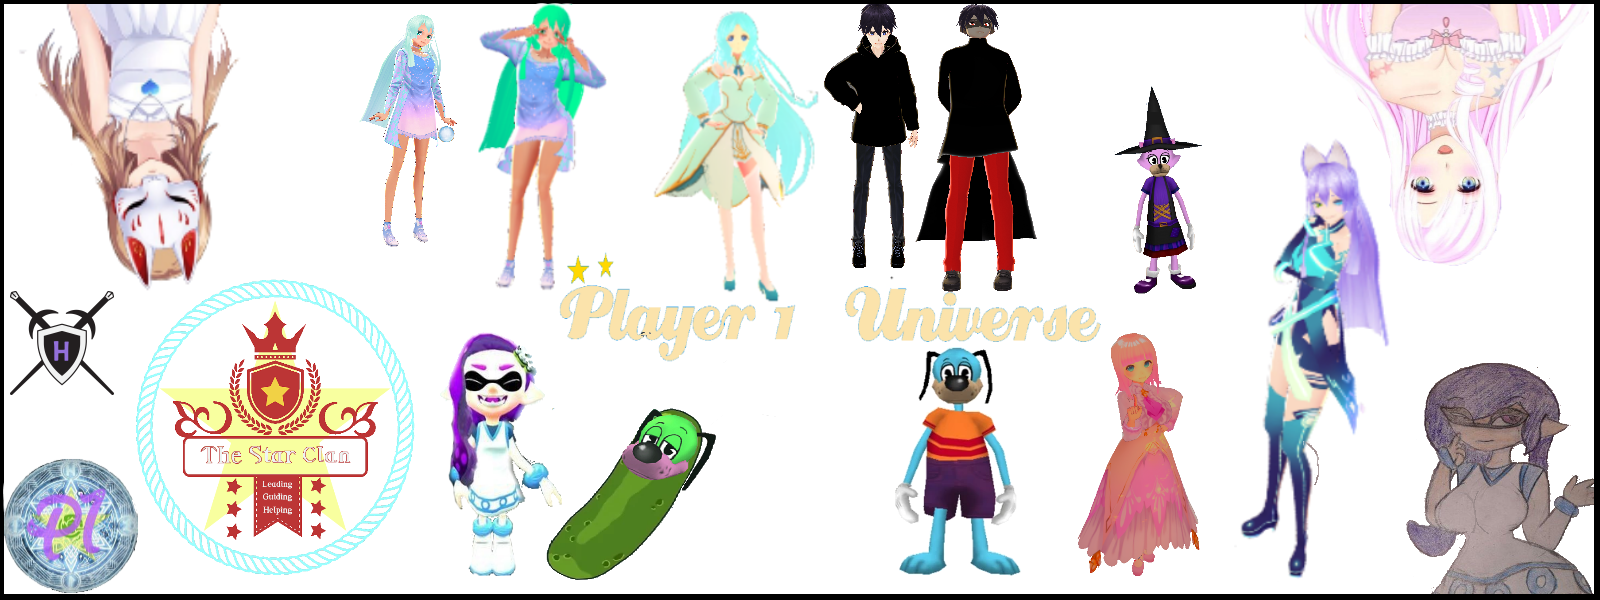
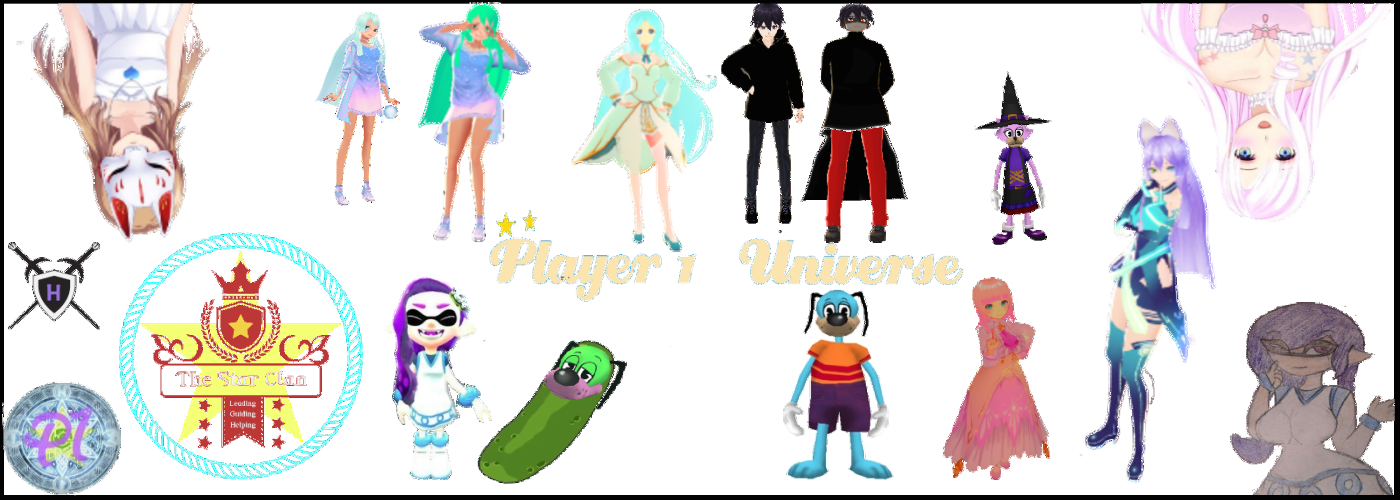
Did stuff
I added the home page and the credits page to the navigation bar on each page (excluding the exclusions).

I added Zachary_Davidson.html to add one more character to the canon.

I added assets/js/app.js to add more functionality to my website.

Destiny has taken over my homepage and she added her own picture to the homepage and her own introduction!

I temporarily disabled the banner until I can finish the tutorial on how to properly make my website accessible to all devices.

I added a secret link without the underline of the regular link on the homepage which leads to https://www.Player1Universe.com/Characters/Zachary_Davidson/

I renamed MeetMyCharacters.html to My_Characters.html and I changed the location of the My_Characters.html document to the Characters/ folder.

I added a footer to the Error 404 page but I removed the Twitter and Gmail icons in favor against them. Even though I shrunk the image several tiimes and completely redid the text on error.png just once.

I copied .htaccess from the Blog/ folder into the Characters/ folder.

I also shrunk the banner even though I disabled it for now.

I added shadows for behind the text but I need to figure out what color looks good on it.

diff --git a/index.html b/index.html
@@ -5,60 +5,69 @@
 		<meta charset="UTF-8">
 		<meta name="keywords" content="toontown, the heroes, omniversal, video games, games, skits, Player 1, Player 1 Universe, Player 1 Gamez, Player1Gamez, Player1Universe, P1, P1U, P1G">
 		<meta name="description" content="Player 1 Universe is a company working to bring a little light into the world one thing at a time!">
-		<meta name="viewport" content="width=device-width, initial-scale=1">
+		<meta name="viewport" content="width=device-width, initial-scale=1.0">
 		<link rel="icon" sizes="32x32" href="assets/img/ico/32.ico">
 		<link rel="stylesheet" href="assets/css/styles/stylesheet.css">
 	</head>
 	<body style="font-family:'Impress BT'">
+		<style>
+			body {
+				color: #FEC5E5;
+			}
+		</style>
 		<header>
 				<nav>
 					<ul>
 						<center>
 
-						<a href="https://www.player1universe.com/About" style="color: #FEC5E5">About</a> <a href="https://www.player1universe.com/Blog" style="color: #FEC5E5">Blog</a> <a href="https://www.player1universe.com/Videos" style="color: #FEC5E5">Videos</a> <a href="https://www.player1universe.com/Games" style="color: #FEC5E5">Games</a> <a href="https://www.player1universe.com/MeetMyCharacters" style="color: #FEC5E5">Meet My Characters</a> <a href="https://www.player1universe.com/Stories" style="color: #FEC5E5">Stories</a> <a href="https://www.player1universe.com/ContactMe" style="color: #FEC5E5">Contact Me</a>
+							<a href="/" style="color: #FEC5E5">Home</a> <a href="https://www.player1universe.com/About" style="color: #FEC5E5">About</a> <a href="https://www.player1universe.com/Blog" style="color: #FEC5E5">Blog</a> <a href="https://www.player1universe.com/Videos" style="color: #FEC5E5">Videos</a> <a href="https://www.player1universe.com/Games" style="color: #FEC5E5">Games</a> <a href="https://www.player1universe.com/Characters/My_Characters" style="color: #FEC5E5">Meet My Characters</a>Meet My Characters</a> <a href="https://www.player1universe.com/Stories" style="color: #FEC5E5">Stories</a> <a href="https://www.player1universe.com/ContactMe" style="color: #FEC5E5">Contact Me</a> <a href="Credits" style="color: #FEC5E5">Credits</a>
 						
 						</center>
 					</ul>
 				</nav>
-			<center><a href="/"><img src="assets/img/Banner.png" alt="Banner/Home Button"></a></center>
-		</header>
-
-		<p><center>Hello!</center></p>
-
-		<p><center>My name is Destiny and I am apart of the Tulpa called the Goddess! I am Zachary Danielson's Tulpa and he is the author of <a href="https://www.wattpad.com/story/224624037-the-star-of-toontown" style="color: #FEC5E5">The Star of Toontown</a> trilogy, he is the creator of Toontown Fantasy, he is the creator of Player 1 Universe, and is the the head of this company!</center></p>
-
-		<p><center>Click <a href="About" style="color: #FEC5E5">here</a> to learn more about Zachary Danielson's Company!</center></p>
-
+			<center><a href="/"><img src="assets/img/Banner.png" alt="Banner/Home Button" class="img-banner"></a></center>
+			<div class="wrapper">
+			<article class="img-info">
+					<article>
+		<center><h1>Hello and welcome to Player 1 Universe!</h1></center>
+			</header>
+		<br>
+		<br>
+		<center><img src="assets/img/Characters/Destiny.png" alt="Destiny"> <p><center>My name is Destiny and I am piece of the Soul of the entity known as Goddess that was given to Zachary Danielson as a gift from the Divine since she was delt a bad hand in her previous lives!</p></center>
+			<br>
+			<br>
+		<center><h1>Who is Zachary Danielson you ask?</h1></center>
+			<br>
+			<br>
+		<center><p><a href="https://www.Player1Universe.com/Characters/Zachary_Davidson" class="Zachary">Zachary</a> David Danielson is the goddess incarnate Thalassa!
+			<br>
+			<br>
+		<p><center>Click <a href="About" style="color: #9370db">here</a> to learn more about Zachary Danielson's Company!</center></p>
+			<br>
+			<br>
 		<center><iframe src="https://discord.com/widget?id=775528645086543895&theme=dark" width="350" height="500" allowtransparency="true" frameborder="0" sandbox="allow-popups allow-popups-to-escape-sandbox allow-same-origin allow-scripts"></iframe></center>
-
+					</article>
+				</article>
 		<!--
 
-			AWAKEN!
+			Hey Zachary, do you copy?
 
-			Something or someone is coming. I can feel it...
+			What is it?
+			
+			Transmissions are a go.
 
-			It is nearly time...
+			That's great! I'll see you there!
 
-			Are you ready to use your powers to fight them?
-
-			You have to find the Amulet of the Goddess and defeat them before it is too late!
-		
-			They're coming for me and for you... I must go for now...
-
-			Goodbye and good luck on your quest. 
-
-			By the way, make sure you keep an eye on the transmissions because I will be talking through anybody who posts through there... 
-
-			Also, somewhere on this page, there is an invisible link which will lead you to the discovery of your own powers...
-
-			Goodbye 
+			Roger that. Over and out.
 
 		-->
 
+
+
 		<footer>
-			<center><a href="mailto:zacharyp1aysgamez@gmail.com" style="color: #FEC5E5"> <img src="assets/img/Gmail.png"</a> <a href="https://twitter.com/player1gamez" alt="Check out my Twitter!" style="color: #FEC5E5"><img src="assets/img/Twitter.png"></a></center>
-			
-			<center><p>Player 1 Universe and Omniversal are both protected under the Poor Man's Copyright law from 1976 and are owned by Zachary Davidson as of 2020 until he can purchase a proper copyright for his website</p></center>
+			<center><p style="white">Player 1 Universe and Omniversal are both protected under the Poor Man's Copyright law from 1976 and are owned by Zachary Davidson as of 2020 until he can purchase a proper copyright for his website</p></center>
+
+			<center><p class="CbTG">Created by The Goddess...</p></center> <!-- and by Zachary Davidson-->
 		</footer>
 	</body>
 </html>

diff --git a/Characters/Zachary_Davidson.html b/Characters/Zachary_Davidson.html
@@ -1,0 +1,49 @@
+<!DOCTYPE html>
+<html>
+	<head>
+		<title>Home | Player 1 Universe</title>
+		<meta charset="UTF-8">
+		<meta name="keywords" content="toontown, the heroes, omniversal, video games, games, skits, Player 1, Player 1 Universe, Player 1 Gamez, Player1Gamez, Player1Universe, P1, P1U, P1G">
+		<meta name="description" content="Player 1 Universe is a company working to bring a little light into the world one thing at a time!">
+		<meta name="viewport" content="width=device-width, initial-scale=1.0">
+		<link rel="icon" sizes="32x32" href="assets/img/ico/32.ico">
+		<link rel="stylesheet" href="../assets/css/styles/stylesheet.css">
+	</head>
+	<body style="font-family:'Impress BT'">
+		<header>
+				<nav>
+					<ul>
+						<center>
+
+							<a href="/" style="color: #FEC5E5">Home</a> <a href="https://www.player1universe.com/About" style="color: #FEC5E5">About</a> <a href="https://www.player1universe.com/Blog" style="color: #FEC5E5">Blog</a> <a href="https://www.player1universe.com/Videos" style="color: #FEC5E5">Videos</a> <a href="https://www.player1universe.com/Games" style="color: #FEC5E5">Games</a> <a href="https://www.player1universe.com/MeetMyCharacters" style="color: #FEC5E5">Meet My Characters</a> <a href="https://www.player1universe.com/Stories" style="color: #FEC5E5">Stories</a> <a href="https://www.player1universe.com/ContactMe" style="color: #FEC5E5">Contact Me</a>
+						
+						</center>
+					</ul>
+				</nav>
+			<center><a href="/"><img src="assets/img/Banner.png" alt="Banner/Home Button" class="img-banner"></a></center>
+		</header>
+		<br>
+		<br>
+		<center><h1 style="color: #07FC1B">Hello?</h1></center>
+		<br>
+		<br>
+		<center><p style="color: #07FC1B">I am talking through another version of myself from another universe to tell you about myself!</p></center>
+		<br>
+		<br>
+		<center><h1 style="color: #07FC1B">Who am I?</h1></center>
+		<br>
+		<br>
+		<center><p style="color: #07FC1B">My name is Zachary Davidson and I am the author of <a href="https://www.wattpad.com/story/224624037-the-star-of-toontown" style="color: #07FC1B">The Star of Toontown</a> trilogy, I am the creator of Toontown Fantasy, the creator of Player 1 Universe, and I am the the head of Omniversal, the company that will rival Amazon, Google, and the rest of Big Tech!</p></center>
+		<br>
+		<br>
+		<center><p style="color: #07FC1B">Now, something has come up and I need to go... but first, let me tell you this---</p></center>
+			<br>
+			<br>
+		<footer>			
+			<center><p style="color: white">Player 1 Universe and Omniversal are both protected under the Poor Man's Copyright law from 1976 and are owned by Zachary Davidson as of 2020 until he can purchase a proper copyright for his website</p></center>
+				<br>
+				<br>
+			<center><p style="color: #07FC1B">Created by Zachary Davidson</p></center>
+		</footer>
+	</body>
+</html>

diff --git a/About.html b/About.html
@@ -15,7 +15,7 @@
 					<ul>
 						<center>
 
-						<a href="https://www.player1universe.com/About" style="color: #FEC5E5">About</a> <a href="https://www.player1universe.com/Blog" style="color: #FEC5E5">Blog</a> <a href="https://www.player1universe.com/Videos" style="color: #FEC5E5">Videos</a> <a href="https://www.player1universe.com/Games" style="color: #FEC5E5">Games</a> <a href="https://www.player1universe.com/MeetMyCharacters" style="color: #FEC5E5">Meet My Characters</a> <a href="https://www.player1universe.com/Stories" style="color: #FEC5E5">Stories</a> <a href="https://www.player1universe.com/ContactMe" style="color: #FEC5E5">Contact Me</a>
+							<a href="/" style="color: #FEC5E5">Home</a> <a href="https://www.player1universe.com/About" style="color: #FEC5E5">About</a> <a href="https://www.player1universe.com/Blog" style="color: #FEC5E5">Blog</a> <a href="https://www.player1universe.com/Videos" style="color: #FEC5E5">Videos</a> <a href="https://www.player1universe.com/Games" style="color: #FEC5E5">Games</a> <a href="https://www.player1universe.com/Characters/My_Characters" style="color: #FEC5E5">Meet My Characters</a>Meet My Characters</a> <a href="https://www.player1universe.com/Stories" style="color: #FEC5E5">Stories</a> <a href="https://www.player1universe.com/ContactMe" style="color: #FEC5E5">Contact Me</a> <a href="Credits" style="color: #FEC5E5">Credits</a>
 						
 						</center>
 					</ul>

diff --git a/Blog.html b/Blog.html
@@ -15,7 +15,7 @@
 					<ul>
 						<center>
 
-						<a href="https://www.player1universe.com/About" style="color: #FEC5E5">About</a> <a href="https://www.player1universe.com/Blog" style="color: #FEC5E5">Blog</a> <a href="https://www.player1universe.com/Videos" style="color: #FEC5E5">Videos</a> <a href="https://www.player1universe.com/Games" style="color: #FEC5E5">Games</a> <a href="https://www.player1universe.com/MeetMyCharacters" style="color: #FEC5E5">Meet My Characters</a> <a href="https://www.player1universe.com/Stories" style="color: #FEC5E5">Stories</a> <a href="https://www.player1universe.com/ContactMe" style="color: #FEC5E5">Contact Me</a>
+							<a href="/" style="color: #FEC5E5">Home</a> <a href="https://www.player1universe.com/About" style="color: #FEC5E5">About</a> <a href="https://www.player1universe.com/Blog" style="color: #FEC5E5">Blog</a> <a href="https://www.player1universe.com/Videos" style="color: #FEC5E5">Videos</a> <a href="https://www.player1universe.com/Games" style="color: #FEC5E5">Games</a> <a href="https://www.player1universe.com/Characters/My_Characters" style="color: #FEC5E5">Meet My Characters</a>Meet My Characters</a> <a href="https://www.player1universe.com/Stories" style="color: #FEC5E5">Stories</a> <a href="https://www.player1universe.com/ContactMe" style="color: #FEC5E5">Contact Me</a> <a href="Credits" style="color: #FEC5E5">Credits</a>
 						
 						</center>
 					</ul>

diff --git a/Characters/My_Characters.html b/Characters/My_Characters.html
@@ -15,7 +15,7 @@
 					<ul>
 						<center>
 
-						<a href="https://www.player1universe.com/About" style="color: #FEC5E5">About</a> <a href="https://www.player1universe.com/Blog" style="color: #FEC5E5">Blog</a> <a href="https://www.player1universe.com/Videos" style="color: #FEC5E5">Videos</a> <a href="https://www.player1universe.com/Games" style="color: #FEC5E5">Games</a> <a href="https://www.player1universe.com/MeetMyCharacters" style="color: #FEC5E5">Meet My Characters</a> <a href="https://www.player1universe.com/Stories" style="color: #FEC5E5">Stories</a> <a href="https://www.player1universe.com/ContactMe" style="color: #FEC5E5">Contact Me</a>
+							<a href="/" style="color: #FEC5E5">Home</a> <a href="https://www.player1universe.com/About" style="color: #FEC5E5">About</a> <a href="https://www.player1universe.com/Blog" style="color: #FEC5E5">Blog</a> <a href="https://www.player1universe.com/Videos" style="color: #FEC5E5">Videos</a> <a href="https://www.player1universe.com/Games" style="color: #FEC5E5">Games</a> <a href="https://www.player1universe.com/Characters/My_Characters" style="color: #FEC5E5">Meet My Characters</a>Meet My Characters</a> <a href="https://www.player1universe.com/Stories" style="color: #FEC5E5">Stories</a> <a href="https://www.player1universe.com/ContactMe" style="color: #FEC5E5">Contact Me</a> <a href="Credits" style="color: #FEC5E5">Credits</a>
 						
 						</center>
 					</ul>

diff --git a/Credits.html b/Credits.html
@@ -15,7 +15,7 @@
 					<ul>
 						<center>
 
-						<a href="https://www.player1universe.com/About" style="color: #FEC5E5">About</a> <a href="https://www.player1universe.com/Blog" style="color: #FEC5E5">Blog</a> <a href="https://www.player1universe.com/Videos" style="color: #FEC5E5">Videos</a> <a href="https://www.player1universe.com/Games" style="color: #FEC5E5">Games</a> <a href="https://www.player1universe.com/MeetMyCharacters" style="color: #FEC5E5">Meet My Characters</a> <a href="https://www.player1universe.com/Stories" style="color: #FEC5E5">Stories</a> <a href="https://www.player1universe.com/ContactMe" style="color: #FEC5E5">Contact Me</a>
+							<a href="/" style="color: #FEC5E5">Home</a> <a href="https://www.player1universe.com/About" style="color: #FEC5E5">About</a> <a href="https://www.player1universe.com/Blog" style="color: #FEC5E5">Blog</a> <a href="https://www.player1universe.com/Videos" style="color: #FEC5E5">Videos</a> <a href="https://www.player1universe.com/Games" style="color: #FEC5E5">Games</a> <a href="https://www.player1universe.com/Characters/My_Characters" style="color: #FEC5E5">Meet My Characters</a>Meet My Characters</a> <a href="https://www.player1universe.com/Stories" style="color: #FEC5E5">Stories</a> <a href="https://www.player1universe.com/ContactMe" style="color: #FEC5E5">Contact Me</a> <a href="Credits" style="color: #FEC5E5">Credits</a>
 						
 						</center>
 					</ul>

diff --git a/Fantasy.html b/Fantasy.html
@@ -15,7 +15,7 @@
 					<ul>
 						<center>
 
-						<a href="https://www.player1universe.com/About" style="color: #FEC5E5">About</a> <a href="https://www.player1universe.com/Blog" style="color: #FEC5E5">Blog</a> <a href="https://www.player1universe.com/Videos" style="color: #FEC5E5">Videos</a> <a href="https://www.player1universe.com/Games" style="color: #FEC5E5">Games</a> <a href="https://www.player1universe.com/MeetMyCharacters" style="color: #FEC5E5">Meet My Characters</a> <a href="https://www.player1universe.com/Stories" style="color: #FEC5E5">Stories</a> <a href="https://www.player1universe.com/ContactMe" style="color: #FEC5E5">Contact Me</a>
+							<a href="/" style="color: #FEC5E5">Home</a> <a href="https://www.player1universe.com/About" style="color: #FEC5E5">About</a> <a href="https://www.player1universe.com/Blog" style="color: #FEC5E5">Blog</a> <a href="https://www.player1universe.com/Videos" style="color: #FEC5E5">Videos</a> <a href="https://www.player1universe.com/Games" style="color: #FEC5E5">Games</a> <a href="https://www.player1universe.com/Characters/My_Characters" style="color: #FEC5E5">Meet My Characters</a>Meet My Characters</a> <a href="https://www.player1universe.com/Stories" style="color: #FEC5E5">Stories</a> <a href="https://www.player1universe.com/ContactMe" style="color: #FEC5E5">Contact Me</a> <a href="Credits" style="color: #FEC5E5">Credits</a>
 						
 						</center>
 					</ul>

diff --git a/Games.html b/Games.html
@@ -15,7 +15,7 @@
 					<ul>
 						<center>
 
-						<a href="https://www.player1universe.com/About" style="color: #FEC5E5">About</a> <a href="https://www.player1universe.com/Blog" style="color: #FEC5E5">Blog</a> <a href="https://www.player1universe.com/Videos" style="color: #FEC5E5">Videos</a> <a href="https://www.player1universe.com/Games" style="color: #FEC5E5">Games</a> <a href="https://www.player1universe.com/MeetMyCharacters" style="color: #FEC5E5">Meet My Characters</a> <a href="https://www.player1universe.com/Stories" style="color: #FEC5E5">Stories</a> <a href="https://www.player1universe.com/ContactMe" style="color: #FEC5E5">Contact Me</a>
+							<a href="/" style="color: #FEC5E5">Home</a> <a href="https://www.player1universe.com/About" style="color: #FEC5E5">About</a> <a href="https://www.player1universe.com/Blog" style="color: #FEC5E5">Blog</a> <a href="https://www.player1universe.com/Videos" style="color: #FEC5E5">Videos</a> <a href="https://www.player1universe.com/Games" style="color: #FEC5E5">Games</a> <a href="https://www.player1universe.com/Characters/My_Characters" style="color: #FEC5E5">Meet My Characters</a>Meet My Characters</a> <a href="https://www.player1universe.com/Stories" style="color: #FEC5E5">Stories</a> <a href="https://www.player1universe.com/ContactMe" style="color: #FEC5E5">Contact Me</a> <a href="Credits" style="color: #FEC5E5">Credits</a>
 						
 						</center>
 					</ul>

diff --git a/Hub.html b/Hub.html
@@ -16,7 +16,7 @@
 					<ul>
 						<center>
 
-						<a href="https://www.player1universe.com/About" style="color: #FEC5E5">About</a> <a href="https://www.player1universe.com/Blog" style="color: #FEC5E5">Blog</a> <a href="https://www.player1universe.com/Videos" style="color: #FEC5E5">Videos</a> <a href="https://www.player1universe.com/Games" style="color: #FEC5E5">Games</a> <a href="https://www.player1universe.com/MeetMyCharacters" style="color: #FEC5E5">Meet My Characters</a> <a href="https://www.player1universe.com/Stories" style="color: #FEC5E5">Stories</a> <a href="https://www.player1universe.com/ContactMe" style="color: #FEC5E5">Contact Me</a>
+							<a href="/" style="color: #FEC5E5">Home</a> <a href="https://www.player1universe.com/About" style="color: #FEC5E5">About</a> <a href="https://www.player1universe.com/Blog" style="color: #FEC5E5">Blog</a> <a href="https://www.player1universe.com/Videos" style="color: #FEC5E5">Videos</a> <a href="https://www.player1universe.com/Games" style="color: #FEC5E5">Games</a> <a href="https://www.player1universe.com/Characters/My_Characters" style="color: #FEC5E5">Meet My Characters</a>Meet My Characters</a> <a href="https://www.player1universe.com/Stories" style="color: #FEC5E5">Stories</a> <a href="https://www.player1universe.com/ContactMe" style="color: #FEC5E5">Contact Me</a> <a href="Credits" style="color: #FEC5E5">Credits</a>
 						
 						</center>
 					</ul>

diff --git a/Stories.html b/Stories.html
@@ -15,7 +15,7 @@
 					<ul>
 						<center>
 
-						<a href="https://www.player1universe.com/About" style="color: #FEC5E5">About</a> <a href="https://www.player1universe.com/Blog" style="color: #FEC5E5">Blog</a> <a href="https://www.player1universe.com/Videos" style="color: #FEC5E5">Videos</a> <a href="https://www.player1universe.com/Games" style="color: #FEC5E5">Games</a> <a href="https://www.player1universe.com/MeetMyCharacters" style="color: #FEC5E5">Meet My Characters</a> <a href="https://www.player1universe.com/Stories" style="color: #FEC5E5">Stories</a> <a href="https://www.player1universe.com/ContactMe" style="color: #FEC5E5">Contact Me</a>
+							<a href="/" style="color: #FEC5E5">Home</a> <a href="https://www.player1universe.com/About" style="color: #FEC5E5">About</a> <a href="https://www.player1universe.com/Blog" style="color: #FEC5E5">Blog</a> <a href="https://www.player1universe.com/Videos" style="color: #FEC5E5">Videos</a> <a href="https://www.player1universe.com/Games" style="color: #FEC5E5">Games</a> <a href="https://www.player1universe.com/Characters/My_Characters" style="color: #FEC5E5">Meet My Characters</a>Meet My Characters</a> <a href="https://www.player1universe.com/Stories" style="color: #FEC5E5">Stories</a> <a href="https://www.player1universe.com/ContactMe" style="color: #FEC5E5">Contact Me</a> <a href="Credits" style="color: #FEC5E5">Credits</a>
 						
 						</center>
 					</ul>

diff --git a/Transmissions.html b/Transmissions.html
@@ -15,7 +15,7 @@
 					<ul>
 						<center>
 
-						<a href="https://www.player1universe.com/About" style="color: #FEC5E5">About</a> <a href="https://www.player1universe.com/Blog" style="color: #FEC5E5">Blog</a> <a href="https://www.player1universe.com/Videos" style="color: #FEC5E5">Videos</a> <a href="https://www.player1universe.com/Games" style="color: #FEC5E5">Games</a> <a href="https://www.player1universe.com/MeetMyCharacters" style="color: #FEC5E5">Meet My Characters</a> <a href="https://www.player1universe.com/Stories" style="color: #FEC5E5">Stories</a> <a href="https://www.player1universe.com/ContactMe" style="color: #FEC5E5">Contact Me</a>
+							<a href="/" style="color: #FEC5E5">Home</a> <a href="https://www.player1universe.com/About" style="color: #FEC5E5">About</a> <a href="https://www.player1universe.com/Blog" style="color: #FEC5E5">Blog</a> <a href="https://www.player1universe.com/Videos" style="color: #FEC5E5">Videos</a> <a href="https://www.player1universe.com/Games" style="color: #FEC5E5">Games</a> <a href="https://www.player1universe.com/Characters/My_Characters" style="color: #FEC5E5">Meet My Characters</a>Meet My Characters</a> <a href="https://www.player1universe.com/Stories" style="color: #FEC5E5">Stories</a> <a href="https://www.player1universe.com/ContactMe" style="color: #FEC5E5">Contact Me</a> <a href="Credits" style="color: #FEC5E5">Credits</a>
 						
 						</center>
 					</ul>

diff --git a/Videos.html b/Videos.html
@@ -15,7 +15,7 @@
 					<ul>
 						<center>
 
-						<a href="https://www.player1universe.com/About" style="color: #FEC5E5">About</a> <a href="https://www.player1universe.com/Blog" style="color: #FEC5E5">Blog</a> <a href="https://www.player1universe.com/Videos" style="color: #FEC5E5">Videos</a> <a href="https://www.player1universe.com/Games" style="color: #FEC5E5">Games</a> <a href="https://www.player1universe.com/MeetMyCharacters" style="color: #FEC5E5">Meet My Characters</a> <a href="https://www.player1universe.com/Stories" style="color: #FEC5E5">Stories</a> <a href="https://www.player1universe.com/ContactMe" style="color: #FEC5E5">Contact Me</a>
+							<a href="/" style="color: #FEC5E5">Home</a> <a href="https://www.player1universe.com/About" style="color: #FEC5E5">About</a> <a href="https://www.player1universe.com/Blog" style="color: #FEC5E5">Blog</a> <a href="https://www.player1universe.com/Videos" style="color: #FEC5E5">Videos</a> <a href="https://www.player1universe.com/Games" style="color: #FEC5E5">Games</a> <a href="https://www.player1universe.com/Characters/My_Characters" style="color: #FEC5E5">Meet My Characters</a>Meet My Characters</a> <a href="https://www.player1universe.com/Stories" style="color: #FEC5E5">Stories</a> <a href="https://www.player1universe.com/ContactMe" style="color: #FEC5E5">Contact Me</a> <a href="Credits" style="color: #FEC5E5">Credits</a>
 						
 						</center>
 					</ul>
